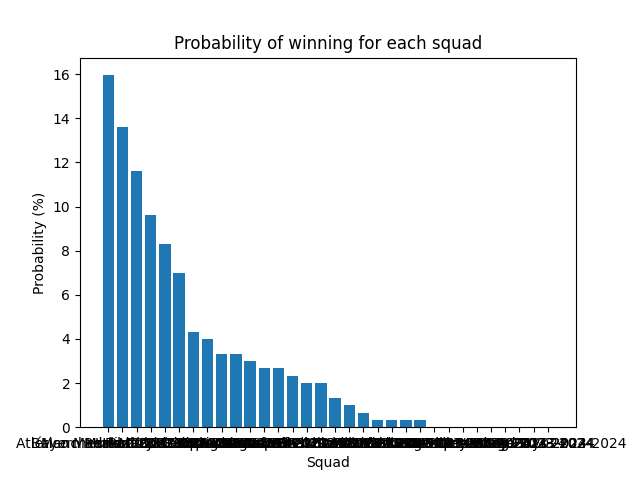
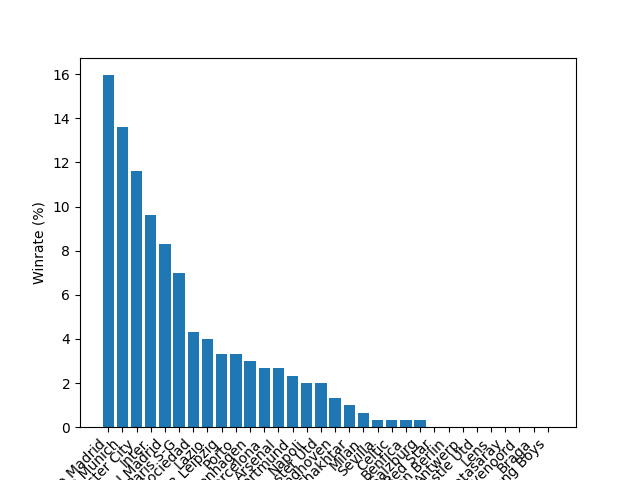
Ultimos retoques con el winrate de cada equipo

Changed region(s): [[0.0312, 0.9062, 1.0, 1.0], [0.25, 0.0625, 0.75, 0.125], [0.0312, 0.4062, 0.0938, 0.625]]

diff --git a/UEFA_Winrate/winrate.py b/UEFA_Winrate/winrate.py
@@ -24,7 +24,7 @@ class Winrate:
         score_mapping = {'W': 10, 'F': 7, 'SF': 5, 'QF': 2, 'R16': 1, 'GR': 0}
         combined_df['Score'] = combined_df['Prediction'].map(score_mapping)
         #Hallamos la probabilidad
-        team_probabilities = combined_df.groupby('Squad')['Score'].mean().sort_values(ascending=False)
+        team_probabilities = combined_df.groupby(combined_df['Squad'].str[:-10])['Score'].mean().sort_values(ascending=False)
         total_score = team_probabilities.sum()
         team_probabilities_percentage = round((team_probabilities / total_score) * 100, 2)
         #Guardamos en csv
@@ -38,7 +38,7 @@ class Winrate:
             fig, ax = plt.subplots()
             ax.bar(df_prob['Squad'], df_prob['Prediction'])
             ax.set_xlabel('Squad')
-            ax.set_ylabel('Probability (%)')
-            ax.set_title('Probability of winning for each squad')
+            ax.set_ylabel('Winrate (%)')
+            plt.xticks(rotation=45, ha='right')  # Rotar las etiquetas del eje x
             plt.savefig(path)
             plt.show()
